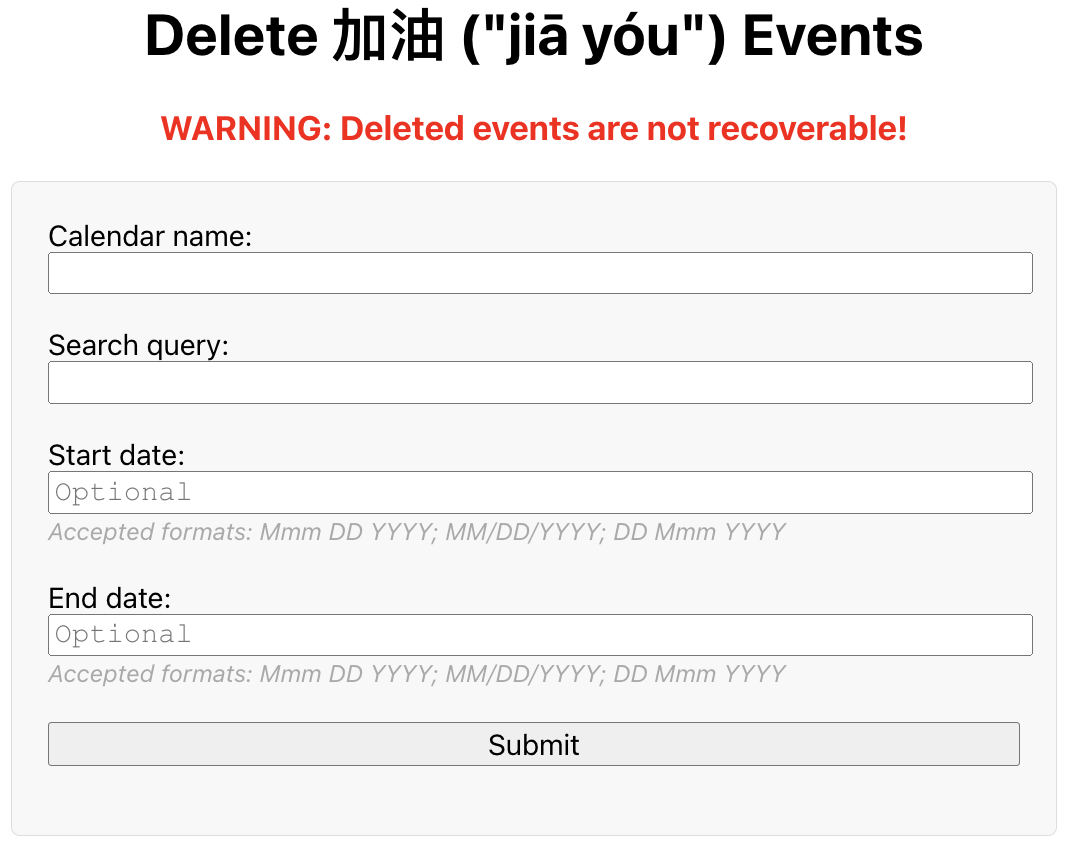
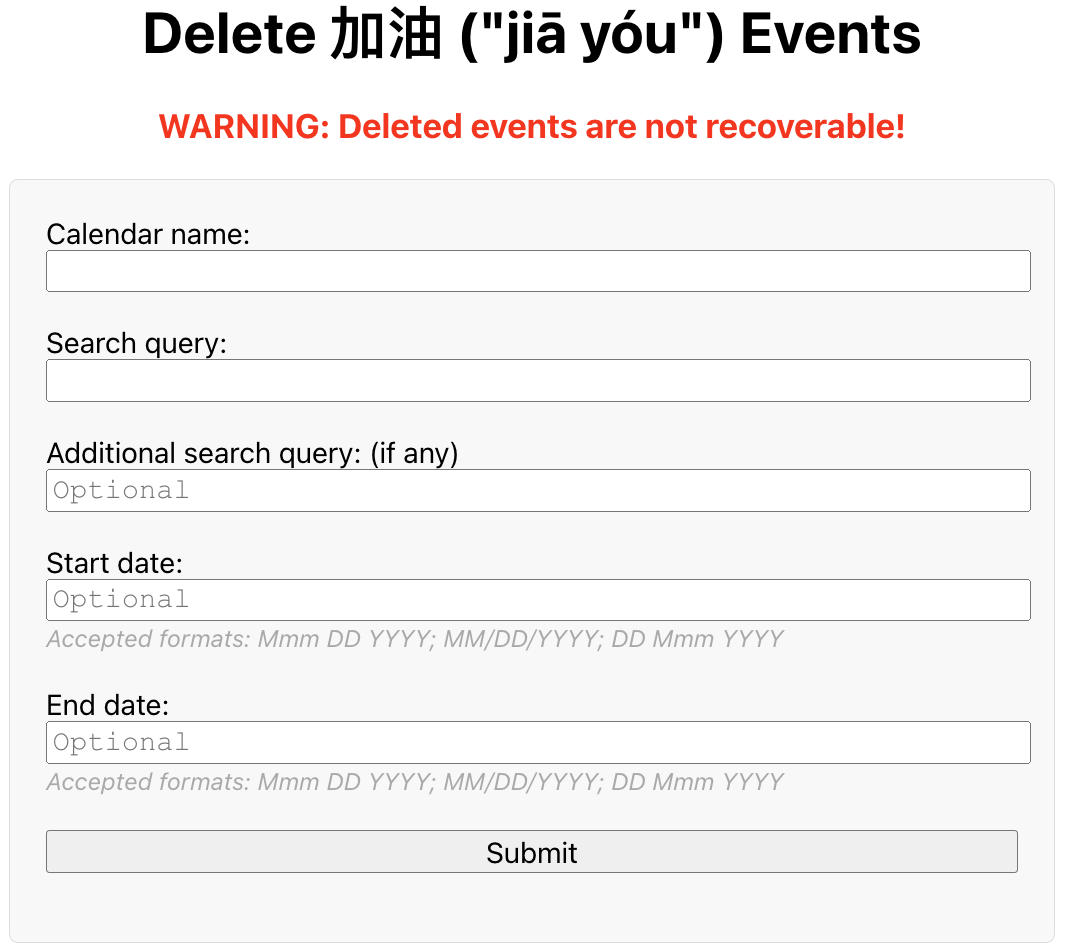
allow confined search

diff --git a/Index.html b/Index.html
@@ -48,6 +48,12 @@
       <!-- Query ignores any extra spacing -->
       </br>
 
+      <label for="queryAdd">Additional search query: (if any)</label>
+      <input type="text" id="queryAdd" name="queryAdd" placeholder="Optional">
+      <!-- Query ignores any extra spacing -->
+      <!-- Input query to confine search -->
+      </br>
+
       <label for="start">Start date:</label>
       <input type="text" id="start" name="start" placeholder="Optional"></input>
       <!-- Confine date range -->
@@ -71,13 +77,14 @@
 
         var calendarName = document.getElementById('calendarName').value;
         var query = document.getElementById('query').value;
+        var queryAdd = document.getElementById('queryAdd').value;
         var start = document.getElementById('start').value;
         var end = document.getElementById('end').value;
         document.getElementById("wait").innerHTML = "Please wait...";
 
         google.script.run.withSuccessHandler(function(response) {
           document.getElementById('wait').innerHTML = response; // Displays a success message when completed
-        }).deleteEvents(calendarName, query, start, end);
+        }).deleteEvents(calendarName, query, queryAdd, start, end);
       });
     </script>
   </body>

diff --git a/README.md b/README.md
@@ -21,8 +21,9 @@ WARNING: Deleted events are not recoverable!
 5. Copy and paste [the markup text](./Index.html) into the editor, and save the file.
 6. Deploy the project as a Web app, and open the assigned URL.
 7. Modify the calendar name and search query. (Modifying the calendar name is recommended, if you had created or updated events on an alternate calender. **_Must name the calendar differently from the owner name, otherwise the app will not delete events._**)
-8. Confine the date range by inputting a start date and end date.
-9. Press submit. (Requires permission to make changes to events and another authorization. **_Note also that deleting calendar events may be subject to a [use limit](https://support.google.com/a/answer/2905486?hl=en)._**)
+8. Confine the search by inputting an additional query.
+9. Confine the date range by inputting a start date and end date.
+10. Press submit. (Requires permission to make changes to events and another authorization. **_Note also that deleting calendar events may be subject to a [use limit](https://support.google.com/a/answer/2905486?hl=en)._**)
 
 <hr>
 Made with &heartsuit; in Visual Studio Code
